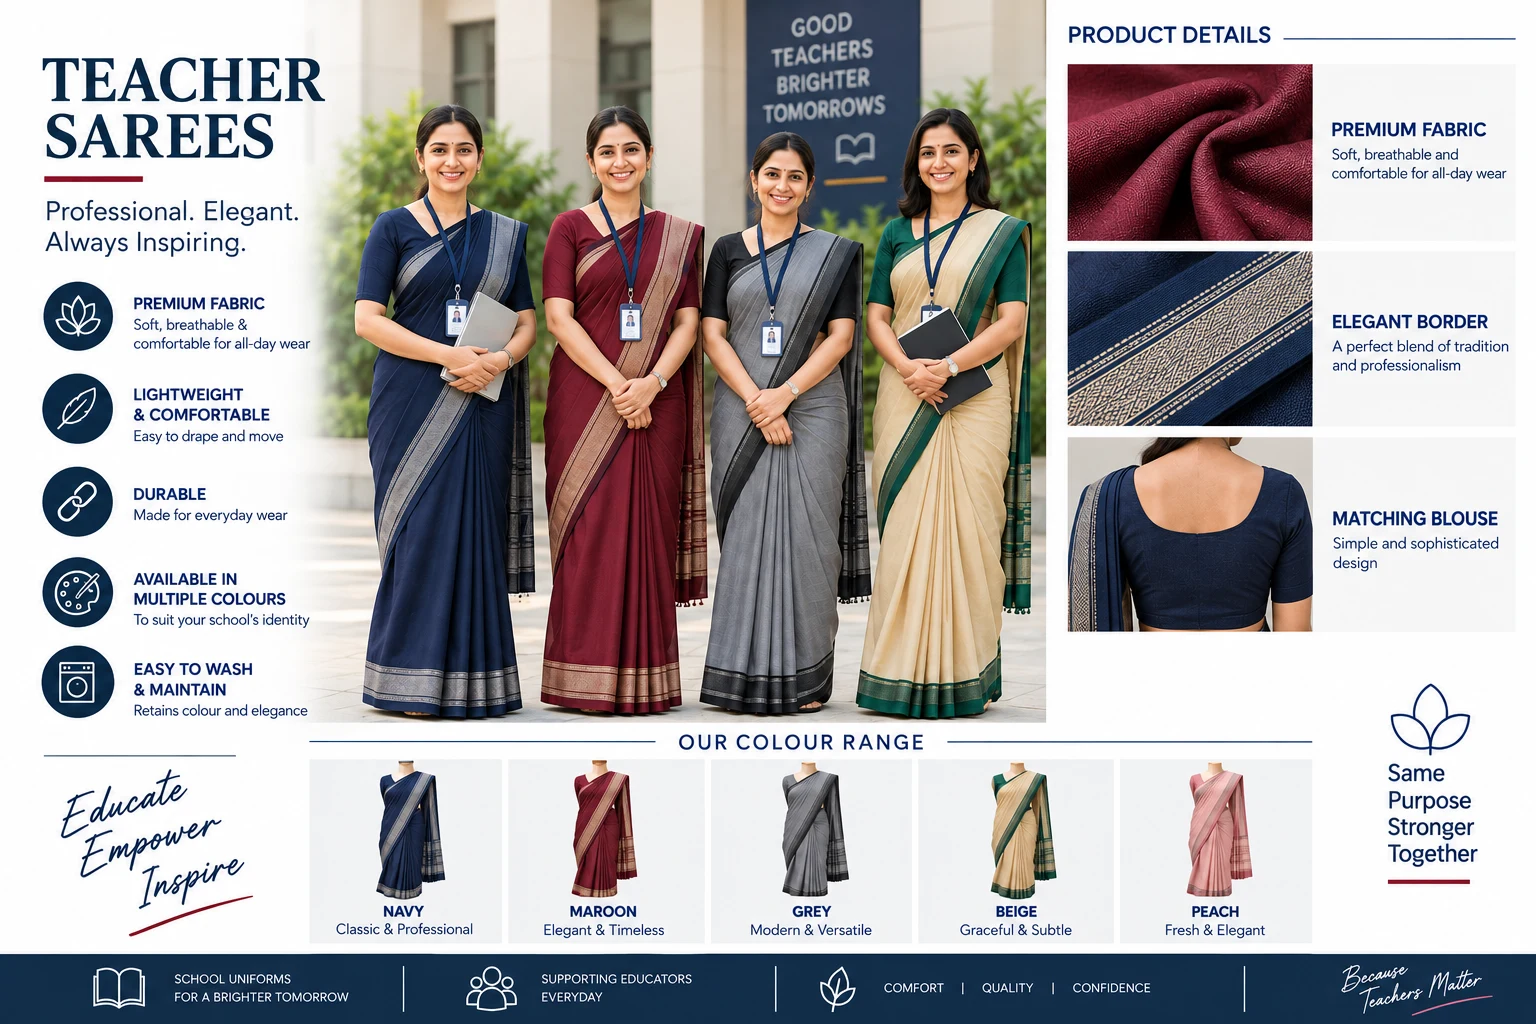
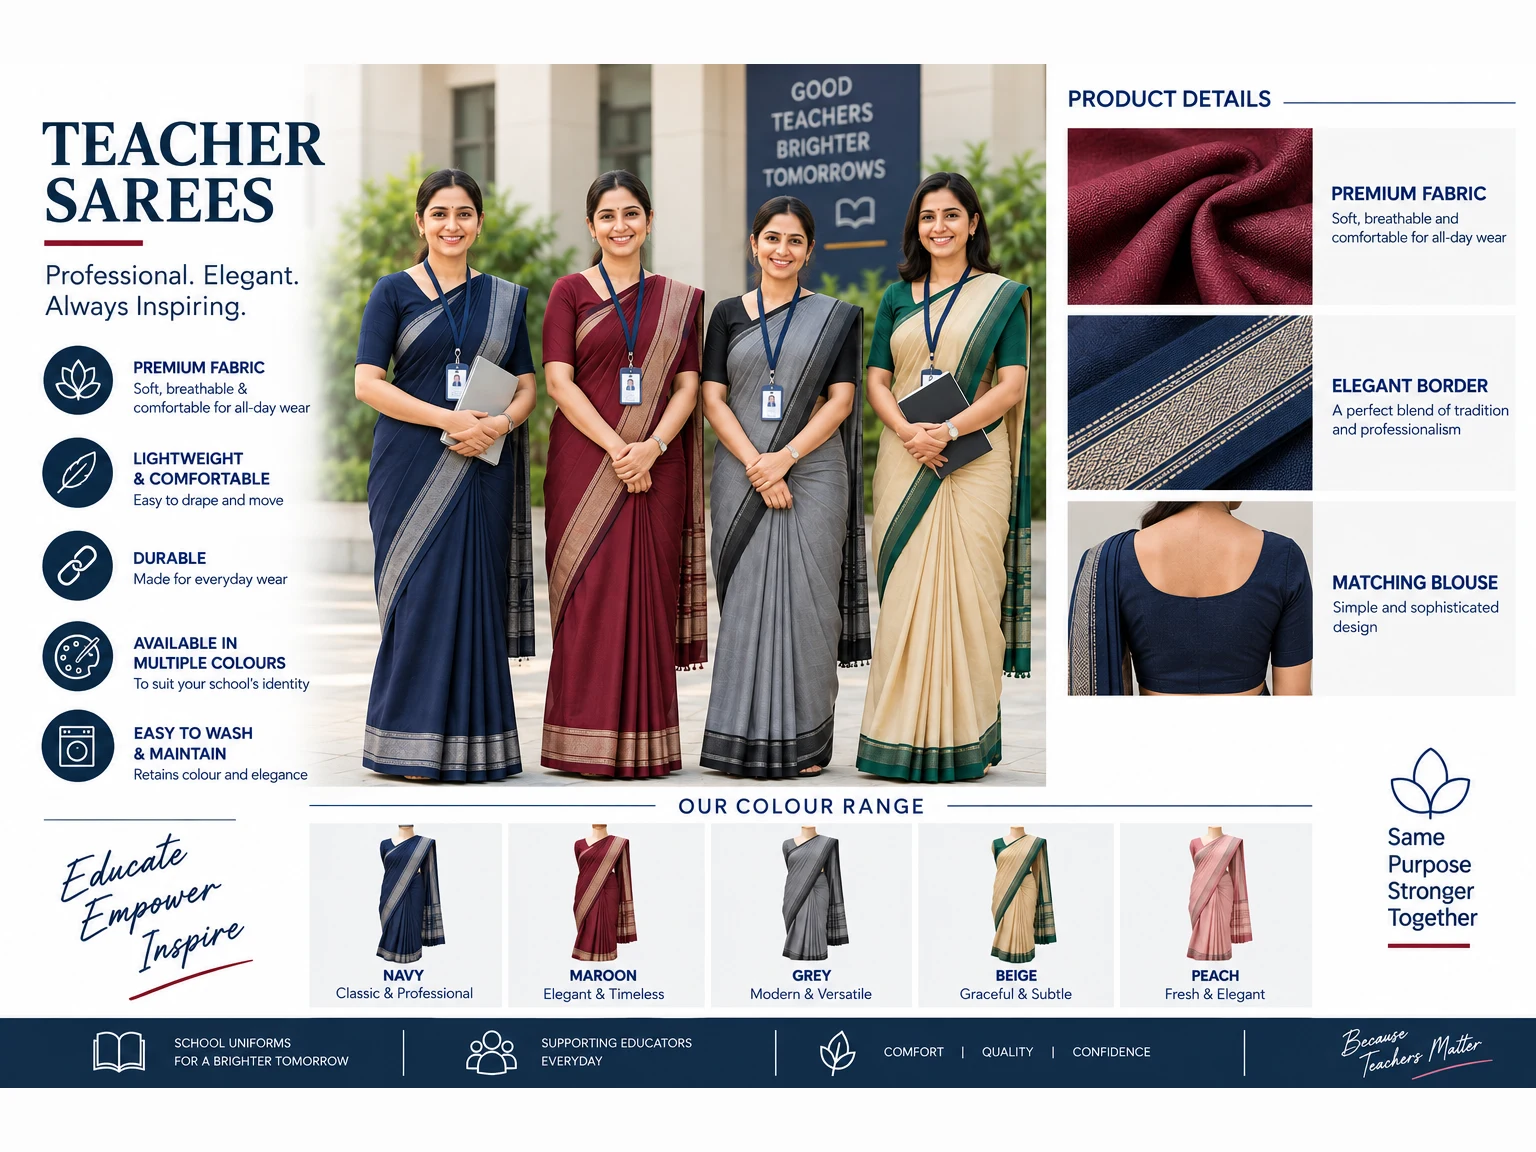
feat: update school uniform asset images

diff --git a/src/components/CatalogSection.tsx b/src/components/CatalogSection.tsx
@@ -87,8 +87,12 @@ export const CatalogSection: React.FC<CatalogSectionProps> = ({
     return filteredItems.filter((i) => i.category === 'school');
   }, [filteredItems]);
 
+  const staffItems = useMemo(() => {
+    return filteredItems.filter((i) => i.category === 'staff');
+  }, [filteredItems]);
+
   const upcomingItems = useMemo(() => {
-    return filteredItems.filter((i) => i.category !== 'school');
+    return filteredItems.filter((i) => i.category !== 'school' && i.category !== 'staff');
   }, [filteredItems]);
 
   const getCategoryTheme = (cat: string) => {
@@ -162,7 +166,10 @@ export const CatalogSection: React.FC<CatalogSectionProps> = ({
         className="group bg-white rounded-[2rem] border border-slate-200 hover:border-indigo-300 hover:shadow-lg transition-all duration-300 flex flex-col overflow-hidden"
       >
         {/* Card Image Stage */}
-        <div className="relative aspect-4/3 bg-slate-100 overflow-hidden">
+        <div 
+          onClick={() => onSelectProduct(item)}
+          className="relative aspect-4/3 bg-white border-b border-slate-100 overflow-hidden cursor-pointer flex items-center justify-center"
+        >
           <img
             src={item.imageUrl}
             alt={item.name}
@@ -174,40 +181,38 @@ export const CatalogSection: React.FC<CatalogSectionProps> = ({
                 e.currentTarget.src = item.fallbackImageUrl;
               }
             }}
-            className="w-full h-full object-cover object-center group-hover:scale-104 transition-transform duration-500"
+            className="w-full h-full object-contain p-1.5 sm:p-2 bg-white object-center group-hover:scale-[1.02] transition-transform duration-300"
           />
 
-          {/* Subtle gradient overlay for badge legibility without dimming garment details */}
-          <div className="absolute inset-0 bg-gradient-to-t from-slate-950/35 via-transparent to-transparent pointer-events-none" />
-
           {/* Top badging */}
-          <div className="absolute top-3 left-3 right-3 flex items-center justify-between gap-2">
-            <span className={`inline-flex items-center gap-1.5 px-3 py-1 rounded-full text-[11px] font-bold border backdrop-blur-md shadow-xs bg-white/95 ${theme.badgeBg}`}>
+          <div className="absolute top-2.5 left-2.5 right-2.5 flex items-center justify-between gap-2 pointer-events-none">
+            <span className={`inline-flex items-center gap-1.5 px-2.5 py-0.5 rounded-full text-[10px] font-bold border backdrop-blur-md shadow-2xs bg-white/95 ${theme.badgeBg}`}>
               {theme.icon}
               <span className="capitalize">{item.category}</span>
             </span>
 
             {item.badge && (
-              <span className="px-3 py-1 rounded-full text-[11px] font-bold bg-slate-900/90 text-amber-300 border border-amber-500/30 backdrop-blur-md shadow-xs">
+              <span className="px-2.5 py-0.5 rounded-full text-[10px] font-bold bg-slate-900/90 text-amber-300 border border-amber-500/30 backdrop-blur-md shadow-2xs">
                 {item.badge}
               </span>
             )}
-          </div>
-
-          {/* Bottom image details: Subcategory & Gender */}
-          <div className="absolute bottom-3 left-3 right-3 flex items-center justify-between text-xs">
-            <span className="px-2.5 py-1 rounded-full bg-slate-900/85 text-white text-[11px] font-semibold backdrop-blur-md shadow-xs">
-              {item.subcategory}
-            </span>
-            <span className="px-2.5 py-1 rounded-full bg-white/90 text-slate-800 text-[11px] font-bold backdrop-blur-md shadow-xs border border-slate-200/50">
-              Fit: {item.gender}
-            </span>
           </div>
         </div>
 
         {/* Card Content */}
         <div className="p-5 sm:p-6 flex-1 flex flex-col justify-between space-y-4">
           <div>
+            {/* Subcategory & Fit Tag */}
+            <div className="flex items-center gap-2 mb-2">
+              <span className="px-2.5 py-0.5 rounded-md bg-slate-100 text-slate-700 text-[11px] font-bold">
+                {item.subcategory}
+              </span>
+              <span className="text-[11px] font-medium text-slate-400">•</span>
+              <span className="text-[11px] font-semibold text-slate-600">
+                Fit: {item.gender}
+              </span>
+            </div>
+
             {/* Name */}
             <h3 
               onClick={() => onSelectProduct(item)}
@@ -350,7 +355,7 @@ export const CatalogSection: React.FC<CatalogSectionProps> = ({
 
         {/* Top Controls: Primary Division Tabs - Bento Pill Style */}
         <div className="bg-white p-1.5 sm:p-2 rounded-2xl sm:rounded-[2rem] border border-slate-200 shadow-xs mb-6">
-          <div className="grid grid-cols-2 md:grid-cols-4 gap-1 sm:gap-1.5">
+          <div className="grid grid-cols-2 sm:grid-cols-3 lg:grid-cols-5 gap-1 sm:gap-1.5">
             <button
               type="button"
               id="cat-tab-school"
@@ -370,6 +375,28 @@ export const CatalogSection: React.FC<CatalogSectionProps> = ({
                 activeCategory === 'school' ? 'bg-indigo-700 text-white' : 'bg-slate-200 text-slate-700'
               }`}>
                 {counts.school}
+              </span>
+            </button>
+
+            <button
+              type="button"
+              id="cat-tab-staff"
+              onClick={() => {
+                onSelectCategory('staff');
+                setSelectedSubcategory('all');
+              }}
+              className={`flex items-center justify-center gap-1.5 sm:gap-2 px-2.5 sm:px-4 py-2.5 sm:py-3 rounded-full text-xs sm:text-sm font-bold uppercase tracking-wider transition-all ${
+                activeCategory === 'staff'
+                  ? 'bg-purple-900 text-white shadow-xs'
+                  : 'text-slate-700 hover:text-slate-900 hover:bg-purple-50/70'
+              }`}
+            >
+              <Users className="w-3.5 h-3.5 sm:w-4 sm:h-4 text-purple-300 shrink-0" />
+              <span className="truncate">Staff <span className="hidden xs:inline">Attire</span></span>
+              <span className={`px-1.5 sm:px-2 py-0.5 rounded-full text-[9px] sm:text-[10px] ${
+                activeCategory === 'staff' ? 'bg-purple-700 text-white' : 'bg-slate-200 text-slate-700'
+              }`}>
+                {counts.staff}
               </span>
             </button>
 
@@ -583,7 +610,40 @@ export const CatalogSection: React.FC<CatalogSectionProps> = ({
               </div>
             )}
 
-            {/* 2. Upcoming Expansion Lines (Corporate & Healthcare) - BELOW SCHOOL UNIFORMS */}
+            {/* 2. School Staff & Faculty Attire - DEDICATED SECTION */}
+            {staffItems.length > 0 && (
+              <div id="staff-uniforms-section" className="pt-4">
+                <div className="flex flex-col sm:flex-row sm:items-center justify-between gap-3 pb-4 mb-6 border-b border-slate-200">
+                  <div className="flex items-center gap-3">
+                    <div className="w-10 h-10 rounded-2xl bg-purple-900 text-white flex items-center justify-center shadow-xs">
+                      <Users className="w-5 h-5" />
+                    </div>
+                    <div>
+                      <div className="flex flex-wrap items-center gap-2">
+                        <h3 className="text-lg sm:text-xl font-extrabold text-slate-900 font-heading">
+                          School Staff &amp; Faculty Uniforms
+                        </h3>
+                        <span className="px-3 py-0.5 rounded-full text-[10px] font-bold bg-purple-100 text-purple-900 border border-purple-200">
+                          Teacher Sarees, Lab Coats &amp; Support Attire
+                        </span>
+                      </div>
+                      <p className="text-xs text-slate-500 mt-0.5">
+                        Dignified teacher formals, science lab faculty coats, Modi Sadri waistcoats, and campus support staff uniforms.
+                      </p>
+                    </div>
+                  </div>
+                  <span className="text-xs font-bold text-purple-900 bg-purple-50 px-3.5 py-1.5 rounded-full border border-purple-200 shrink-0">
+                    {staffItems.length} Staff Styles
+                  </span>
+                </div>
+
+                <div className="grid grid-cols-1 md:grid-cols-2 lg:grid-cols-3 gap-6">
+                  {staffItems.map((item) => renderProductCard(item))}
+                </div>
+              </div>
+            )}
+
+            {/* 3. Upcoming Expansion Lines (Corporate & Healthcare) - BELOW SCHOOL UNIFORMS */}
             {upcomingItems.length > 0 && (
               <div id="upcoming-expansion-section" className="pt-4">
                 <div className="flex flex-col sm:flex-row sm:items-center justify-between gap-3 pb-4 mb-6 border-b border-slate-200">
@@ -635,6 +695,32 @@ export const CatalogSection: React.FC<CatalogSectionProps> = ({
                   </div>
                 </div>
                 <span className="text-xs font-bold text-indigo-900 bg-indigo-50 px-3 py-1 rounded-full border border-indigo-200">
+                  {filteredItems.length} Products
+                </span>
+              </div>
+            )}
+
+            {activeCategory === 'staff' && (
+              <div className="flex flex-wrap items-center justify-between gap-3 pb-4 mb-6 border-b border-slate-200">
+                <div className="flex items-center gap-3">
+                  <div className="w-9 h-9 rounded-2xl bg-purple-900 text-white flex items-center justify-center shadow-xs">
+                    <Users className="w-5 h-5" />
+                  </div>
+                  <div>
+                    <div className="flex items-center gap-2">
+                      <h3 className="text-lg font-extrabold text-slate-900 font-heading">
+                        School Staff &amp; Faculty Uniforms
+                      </h3>
+                      <span className="text-[10px] font-bold text-purple-900 bg-purple-100 px-2.5 py-0.5 rounded-full uppercase">
+                        Academic Institutions
+                      </span>
+                    </div>
+                    <p className="text-xs text-slate-500">
+                      Teacher sarees, faculty lab coats, Nehru waistcoats, formal sets, and campus support staff uniforms.
+                    </p>
+                  </div>
+                </div>
+                <span className="text-xs font-bold text-purple-900 bg-purple-50 px-3 py-1 rounded-full border border-purple-200">
                   {filteredItems.length} Products
                 </span>
               </div>

diff --git a/src/components/ProductDetailModal.tsx b/src/components/ProductDetailModal.tsx
@@ -11,7 +11,8 @@ import {
   Scissors, 
   Truck, 
   Award,
-  Layers
+  Layers,
+  Maximize2
 } from 'lucide-react';
 
 interface ProductDetailModalProps {
@@ -32,6 +33,7 @@ export const ProductDetailModal: React.FC<ProductDetailModalProps> = ({
   const [selectedColor, setSelectedColor] = useState<string>(product.colorOptions[0]?.name || '');
   const [measurementUnit, setMeasurementUnit] = useState<'inches' | 'cm'>('inches');
   const [activeTab, setActiveTab] = useState<'specs' | 'sizing' | 'customization'>('specs');
+  const [isZoomed, setIsZoomed] = useState<boolean>(false);
 
   const unitMultiplier = measurementUnit === 'cm' ? 2.54 : 1;
 
@@ -73,7 +75,11 @@ export const ProductDetailModal: React.FC<ProductDetailModalProps> = ({
             
             {/* Left: Product Image & Color Selection (Col 1-5) */}
             <div className="md:col-span-5 space-y-4">
-              <div className="relative aspect-4/3 rounded-[2rem] overflow-hidden bg-slate-100 border border-slate-200 shadow-xs">
+              <div 
+                onClick={() => setIsZoomed(true)}
+                className="relative aspect-4/3 rounded-2xl sm:rounded-[2rem] overflow-hidden bg-white border border-slate-200 shadow-xs flex items-center justify-center p-2 group cursor-zoom-in"
+                title="Click to expand high-resolution graphic"
+              >
                 <img
                   src={product.imageUrl}
                   alt={product.name}
@@ -84,13 +90,23 @@ export const ProductDetailModal: React.FC<ProductDetailModalProps> = ({
                       e.currentTarget.src = product.fallbackImageUrl;
                     }
                   }}
-                  className="w-full h-full object-cover object-center"
+                  className="w-full h-full object-contain object-center transition-transform duration-300 group-hover:scale-[1.02]"
                 />
+                
                 {product.badge && (
                   <div className="absolute top-3 left-3 px-3 py-1 rounded-full text-[11px] font-bold bg-slate-900 text-amber-300 border border-amber-400/30">
                     {product.badge}
                   </div>
                 )}
+
+                <button
+                  type="button"
+                  aria-label="Enlarge infographic"
+                  className="absolute bottom-3 right-3 p-2 rounded-full bg-slate-900/80 text-white hover:bg-slate-900 shadow-md backdrop-blur-xs flex items-center gap-1.5 text-xs font-semibold opacity-90 group-hover:opacity-100 transition-opacity"
+                >
+                  <Maximize2 className="w-3.5 h-3.5" />
+                  <span className="text-[11px] pr-1">Enlarge</span>
+                </button>
               </div>
 
               {/* Color Shade Swatches */}
@@ -404,6 +420,33 @@ export const ProductDetailModal: React.FC<ProductDetailModalProps> = ({
         </div>
 
       </div>
+
+      {/* Lightbox / High-Res Zoom Overlay */}
+      {isZoomed && (
+        <div 
+          onClick={() => setIsZoomed(false)}
+          className="fixed inset-0 z-60 bg-black/90 backdrop-blur-md flex items-center justify-center p-3 sm:p-6 cursor-zoom-out animate-in fade-in duration-200"
+        >
+          <button
+            type="button"
+            onClick={() => setIsZoomed(false)}
+            className="absolute top-4 right-4 w-11 h-11 rounded-full bg-white/20 hover:bg-white/30 text-white flex items-center justify-center transition-colors shadow-lg z-70"
+            aria-label="Close zoomed view"
+          >
+            <X className="w-6 h-6" />
+          </button>
+          <div 
+            onClick={(e) => e.stopPropagation()}
+            className="relative max-w-5xl max-h-[90vh] bg-white rounded-2xl overflow-hidden shadow-2xl p-2 sm:p-4 flex items-center justify-center"
+          >
+            <img
+              src={product.imageUrl}
+              alt={product.name}
+              className="max-h-[82vh] max-w-full object-contain rounded-lg"
+            />
+          </div>
+        </div>
+      )}
     </div>
   );
 };

diff --git a/src/components/InstitutionalProductMatrix.tsx b/src/components/InstitutionalProductMatrix.tsx
@@ -203,7 +203,7 @@ export const InstitutionalProductMatrix: React.FC<InstitutionalProductMatrixProp
                   key={item.id}
                   className="bg-white rounded-xl border border-slate-200 hover:border-slate-300 hover:shadow-sm transition-all flex flex-col justify-between overflow-hidden group"
                 >
-                  <div className="relative aspect-4/3 bg-slate-100 overflow-hidden">
+                  <div className="relative aspect-4/3 bg-white border-b border-slate-100 overflow-hidden flex items-center justify-center">
                     <img
                       src={item.imageUrl}
                       alt={item.name}
@@ -213,7 +213,7 @@ export const InstitutionalProductMatrix: React.FC<InstitutionalProductMatrixProp
                           e.currentTarget.src = item.fallbackImageUrl;
                         }
                       }}
-                      className="w-full h-full object-cover group-hover:scale-103 transition-transform duration-300"
+                      className="w-full h-full object-contain p-1.5 object-center group-hover:scale-103 transition-transform duration-300"
                       loading="lazy"
                     />
                     {item.badge && (
